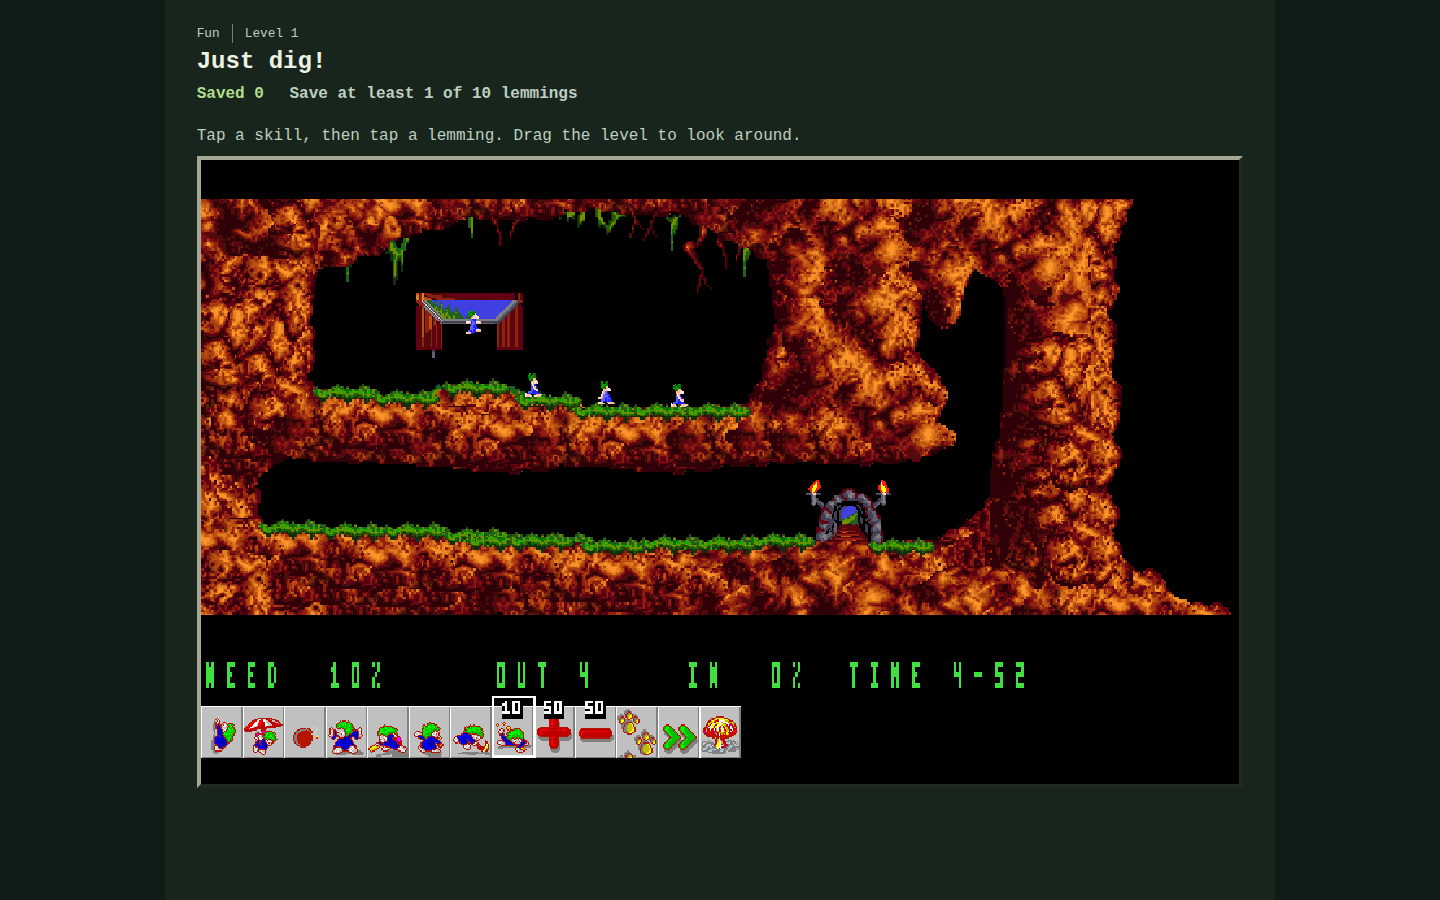
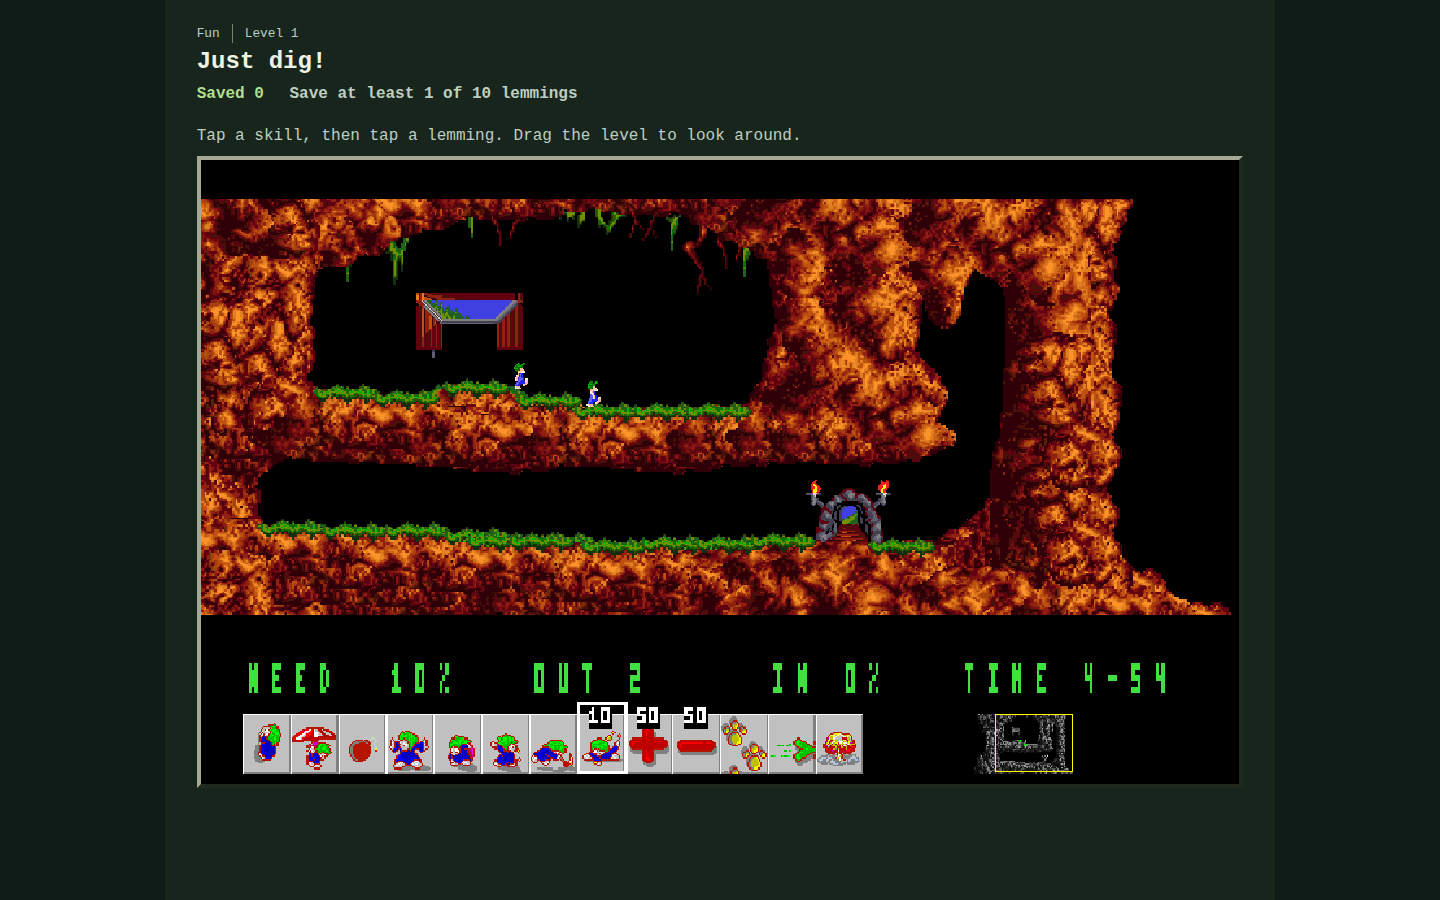
Document Windows minimap, animation and device checks

diff --git a/README.md b/README.md
@@ -34,6 +34,7 @@ This modernization retains the original engine and game data formats while impro
 - Added completion replays and progressive, optional hints for all 120 original DOS levels and all 114 levels on the supplied Windows disc. Each replay has been tested against the corresponding local files; loading a level alone is not treated as proof that it can be completed.
 - Added optional original AdLib music and effects, plus synthesized PC-speaker-style digging, bashing, mining and nuke cues. The synthesized sounds are approximations, not original samples.
 - Added separate DOS and Windows modes. Windows mode can run directly from a compatible Windows ISO, deriving its level list, terrain, characters, objects, gameplay masks, toolbar, effects and music from the player’s files.
+- Animated the Windows toolbar using the frames in the imported files and added a live, interactive overview of the level. Animation timing is an approximation; it has not been verified against the original Windows executable.
 - Added an application source archive and licence notices to production builds. The original game files are not included.
 
 The original Lemmings.ts project also described support for other Lemmings editions. Their historical configuration and parsers remain in the repository, but this version supports original DOS Lemmings and the supplied Windows Lemmings edition; other editions should not be assumed to work.
@@ -79,13 +80,15 @@ Use **Level selection** below the game before starting or after finishing. After
 
 Choose a difficulty and level, then start the level. The target and time are shown before play, and the rescued count is updated during play. The game panel shows the required rescue percentage as **NEED**, beside **IN**, **OUT** and **TIME**, including in fullscreen. For unusual levels with more than 100 lemmings, **NEED** shows the exact count instead. The game canvas also exposes the exact target and saved count to screen readers. Select a skill and click or tap a lemming to assign it; drag the game area to pan, and use the zoom controls or a mouse wheel over the level to change the view. **Reset zoom** restores the default scale. To play with a keyboard, focus the game canvas, use left/right arrows to select an active lemming, and press Enter to assign the selected skill; Space pauses or resumes.
 
+The Windows panel includes a grayscale miniature of the current level: green marks show active lemmings and the yellow outline shows the visible area. Click, tap or drag on it to move the view; the pause menu also has **Move view left** and **Move view right** buttons for keyboard and screen-reader users. The map is drawn from the loaded level artwork, while the animated toolbar uses the original frames from your Windows files. The animation follows the game speed and pauses with the game; its cadence and pause behaviour are approximations. The panel proportions are inspired by the Windows game, with the centred status above the controls for readability.
+
 Choose **Fullscreen** to fit the game screen to the display. During fullscreen play, only the game canvas is visible. Press the pause button on the game's bottom panel to reveal the pause menu and the skill, zoom, audio and other controls. In Windows mode, pause is followed by fast-forward and nuke; on the DOS panel, pause sits immediately left of nuke. If the browser doesn't allow native fullscreen, the game expands within the available browser window instead. The pause menu offers resume, restart, level selection and fullscreen controls while keeping skill selection available. The speed control offers 1×, 2× and 4× play; the Windows fast-forward button toggles between 1× and 4×. Release-rate controls are also available during a level. Nuke requires confirmation: press the Windows panel icon twice or use the confirmation in the menu. Switching apps or hiding the tab pauses a running level, including a start that finishes loading in the background; resume explicitly when you return. On a portrait phone, the original panel buttons are small; landscape gives them more space. No level is cropped to fill a screen with a different aspect ratio.
 
 Hints are optional and reveal one step at a time. In Windows mode, open the pause menu to access them during play. For each edition, a local fingerprint of the imported level, terrain, physics and relevant graphics files is checked against the data used for its tested solutions; hints are unavailable for a different or unverifiable set, but the game remains playable. Nothing is uploaded for this check. After revealing a hint, **Show example first move** marks where the tested route begins. It is an illustration from a separate replay, not advice adapted to the current attempt; its position and timing can differ if you play another route.
 
 On Android Chrome, open the HTTPS site and use **Install app** or **Add to Home screen**. Load the app while online and import your files on that device before trying it offline; the home screen reports when the app shell is ready. Browser-managed storage can be cleared or evicted. Progress, settings and imported files do not sync between devices. **Export backup** on the home screen saves progress, settings and the last level, but never the game files; **Restore backup** replaces those settings and progress on the device. Keep your own game-file copy separately. For checks on the actual phone and tablet, see [Android device check](docu/ANDROID_DEVICE_CHECK.md).
 
-Choose **DOS** or **Windows** under **Game mode** on the home screen. Each mode is available when its own complete game files have been imported; Windows alone is enough to play Windows mode. Windows uses the disc's own level order, terrain, characters, objects, gameplay masks, toolbar icons, effects and MIDI music. Its original panel order places the eight skills before release rate, pause, fast-forward and nuke. Older imports without the fast-forward artwork remain playable with the earlier panel; reconnect to a matching bundled deployment or re-import your Windows ISO to obtain it. The interface is adapted for browsers and touch rather than a complete reproduction of the Windows application's menus and minimap. DOS and Windows level progress are stored separately. Each edition has hints for its own verified level order and replays. Windows is selected by default when its files are available; a choice you make is remembered on that device, and temporarily using the other edition does not overwrite it. If preference storage is unavailable, the choice still works for the current visit and the app explains that it could not save it. The mode is not included in progress backups.
+Choose **DOS** or **Windows** under **Game mode** on the home screen. Each mode is available when its own complete game files have been imported; Windows alone is enough to play Windows mode. Windows uses the disc's own level order, terrain, characters, objects, gameplay masks, toolbar icons, effects and MIDI music. Its original panel order places the eight skills before release rate, pause, fast-forward and nuke. Older imports without the fast-forward artwork remain playable with the earlier panel; reconnect to a matching bundled deployment or re-import your Windows ISO to obtain the full panel and minimap. The surrounding menus are adapted for browsers and touch. DOS and Windows level progress are stored separately. Each edition has hints for its own verified level order and replays. Windows is selected by default when its files are available; a choice you make is remembered on that device, and temporarily using the other edition does not overwrite it. If preference storage is unavailable, the choice still works for the current visit and the app explains that it could not save it. The mode is not included in progress backups.
 
 Music and sound effects have separate switches and start off by default. Music can be previewed before starting a level; that preview suspends while the tab is hidden. The AdLib effects include opening cues, skill selection and assignments, builder warnings, steel, Oh No, exits, splats, explosions, drowning, fire and triggered traps. Each effects channel is monophonic; the short nuke alert takes priority over other speaker cues. The AdLib interpreter uses a legacy Web Audio processor, and browsers may require user interaction before audio can play.
 

diff --git a/docu/ANDROID_DEVICE_CHECK.md b/docu/ANDROID_DEVICE_CHECK.md
@@ -5,7 +5,7 @@ The automated browser tests emulate phone and tablet screen sizes; they do not v
 1. **Set up online.** Open the play site in Chrome and allow its bundled files to load. Confirm **Play Lemmings** and the offline-readiness message appear. Windows should be selected initially when its files are present. Choose DOS and then Windows and confirm each shows its own levels and saved results; an explicit choice should be remembered. Windows can run with only the Windows files. If testing manual import, use the file-free preview, choose **Add Windows files** and select the compatible Windows ISO, or **Add DOS files** and select the original DAT files or a ZIP. Each site has separate browser storage.
 2. **Install.** In Chrome, choose **Install app** or **Add to Home screen**, then open the app from its icon. Check it opens independently and sees the same files. Confirm the mode and level selection are legible in portrait and landscape.
 3. **Play.** Start a level in Windows mode. Try selecting skills and tapping lemmings, dragging to pan, zooming in and out, and **Reset zoom**. Open **Show a hint**, reveal another and try **Show example first move**; the example describes a verified route, not the current attempt. Complete a level and check the saved result after reopening. Repeat a representative level in DOS mode if both editions are available.
-4. **Fullscreen and interruptions.** Enter **Fullscreen** in portrait and landscape. While playing, confirm there are no floating controls over the level and that the panel’s **NEED** target stays readable next to **OUT**, **IN** and **TIME**. On the Windows panel, check that the fast-forward icon between pause and nuke toggles the game speed. Tap the pause icon and check that the pause menu opens without also activating another control. On the DOS panel, pause is immediately left of nuke. Try zoom and reset, **Resume**, **Restart level**, **Level selection** and **Exit fullscreen**. Check the system Back gesture and the expanded-view fallback if native fullscreen is unavailable. Switch apps or lock the screen during play and immediately after starting; return and confirm the game is paused until resumed.
+4. **Fullscreen and interruptions.** Enter **Fullscreen** in portrait and landscape. While playing, confirm there are no floating controls over the level and that the panel’s **NEED** target stays readable next to **OUT**, **IN** and **TIME**. On the Windows panel, check the animated icons, and tap and drag the minimap to move around the level; check the yellow outline follows the view after panning and zooming. Confirm the fast-forward icon between pause and nuke toggles the game speed. Tap the pause icon and check that the pause menu opens without also activating another control. Try **Move view left** and **Move view right** with touch, keyboard and a screen reader where available. On the DOS panel, pause is immediately left of nuke. Try zoom and reset, **Resume**, **Restart level**, **Level selection** and **Exit fullscreen**. Check the system Back gesture and the expanded-view fallback if native fullscreen is unavailable. Switch apps or lock the screen during play and immediately after starting; return and confirm the game is paused until resumed.
 5. **Sound.** Turn Music and Sound on separately. Listen for music and Windows voices/effects, including after pause, resume, locking and reopening. Check speaker and headphones if available, along with volume and silent mode. Music and sound start off by default; Windows MIDI instrumentation is an approximation.
 6. **Offline and backup.** While online, wait for the offline-readiness message and load a level. Close the installed app, enable airplane mode, reopen it and start that level. Re-enable connectivity. Export a backup, restore it on the other device, and check progress and the last level for both editions. Restoring replaces existing progress/settings on that device, not its game files; it does not sync automatically.
 7. **Updates and recovery.** After an update, reopen online, confirm the selected edition and progress remain, then check an offline relaunch. Existing Windows files migrate automatically to shared storage; if another tab blocks this, close the old tabs and reopen. Do not clear site data as the first fix: it removes locally stored game files and progress. Record failures first. Try an incomplete replacement Windows selection and confirm the error leaves the previous edition playable after reload. If testing file removal, confirm each remove button affects only its edition. On the bundled play site, reload online after removing Windows and confirm it becomes available again. On the file-free preview, confirm Windows stays absent until imported manually. Removed DOS files should not re-import automatically.
